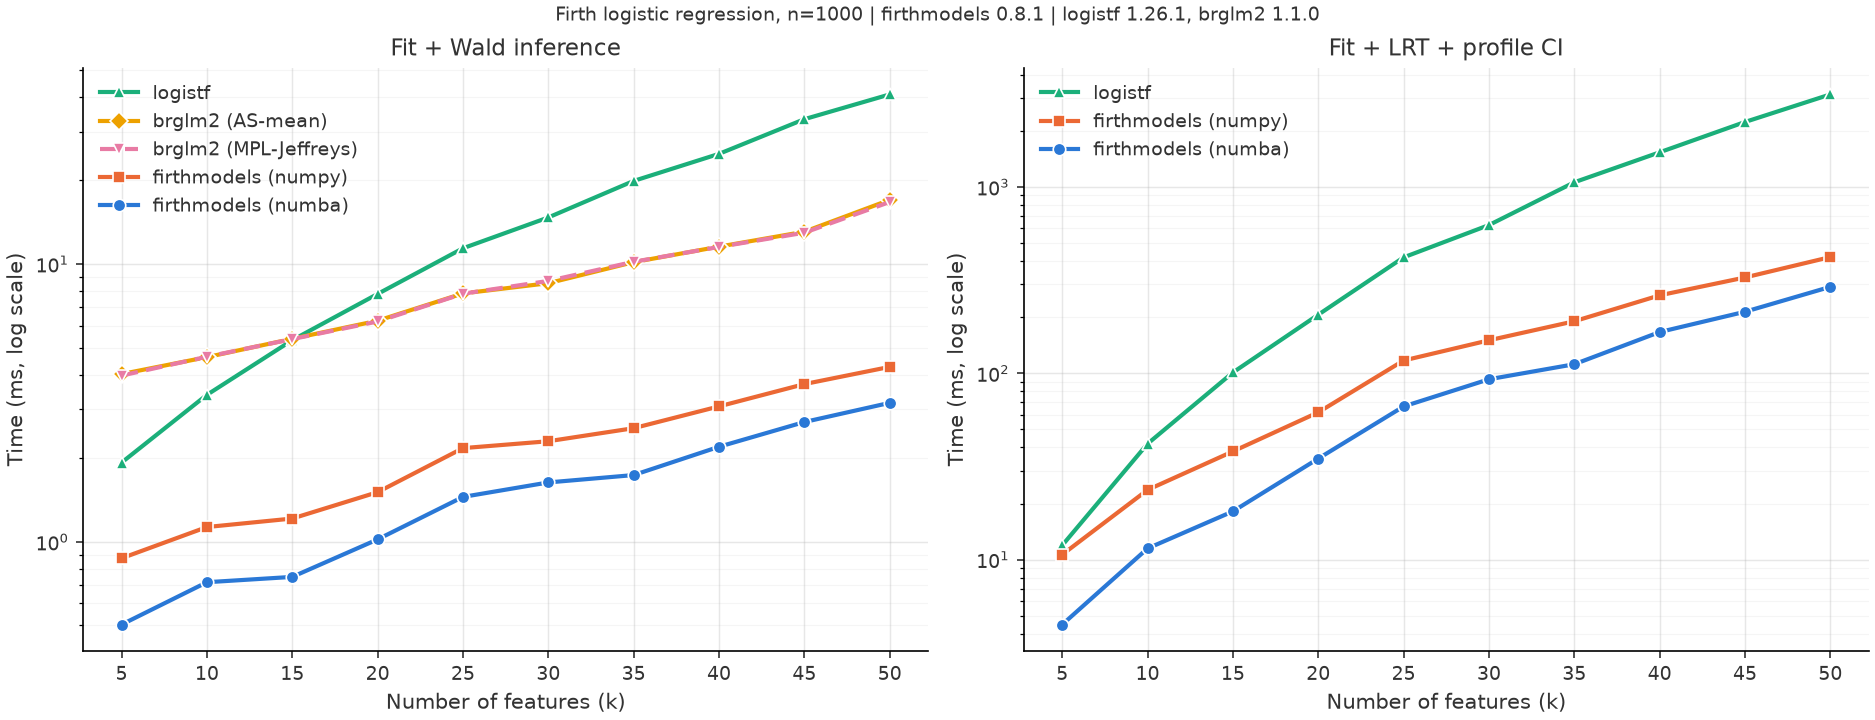
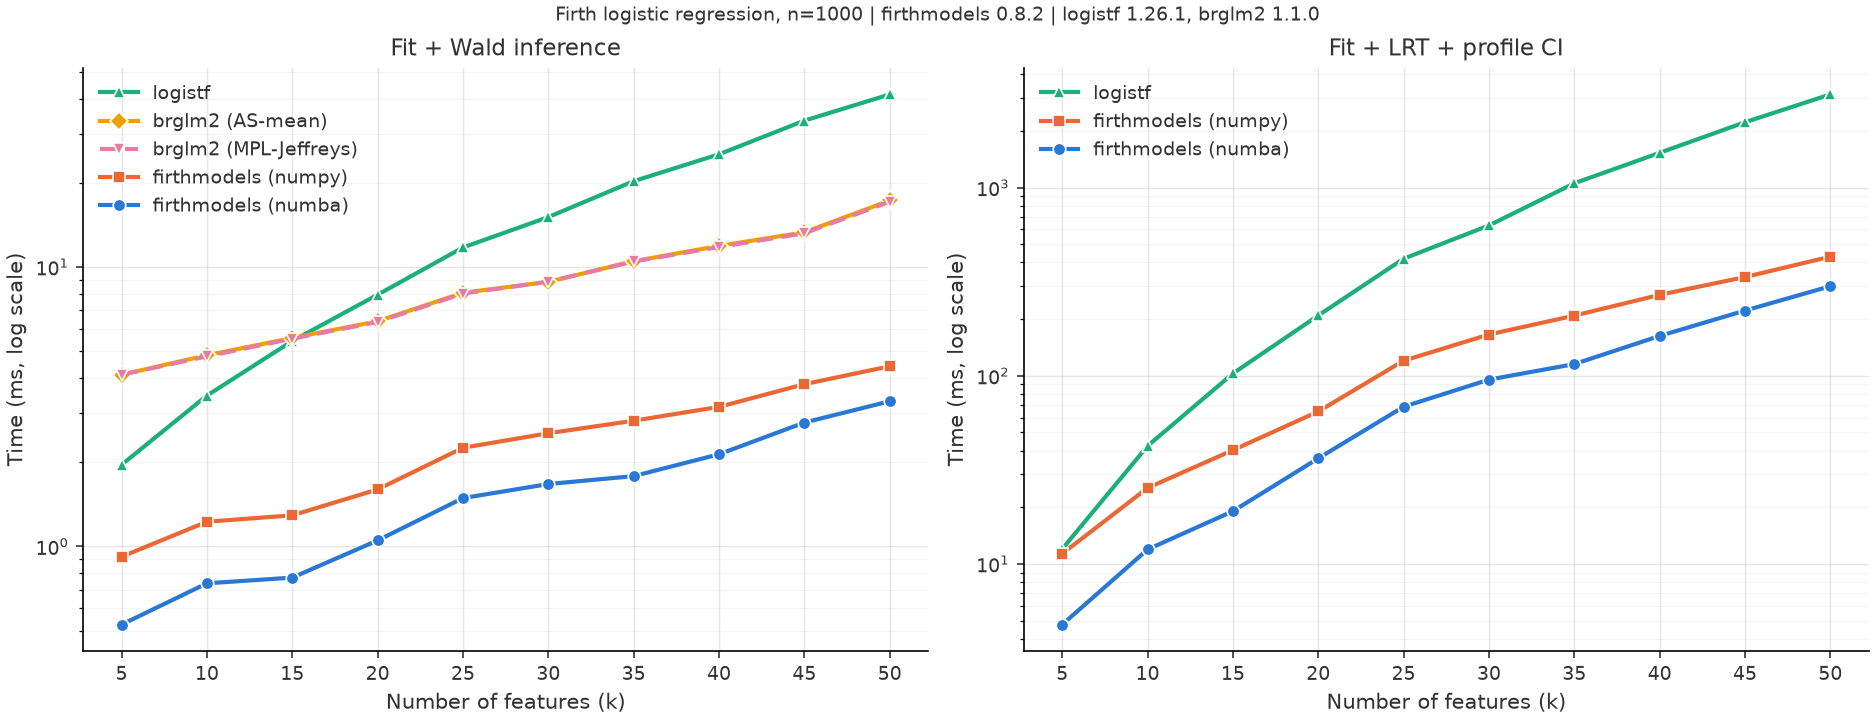
bump to 0.8.2

diff --git a/benchmarks/README.md b/benchmarks/README.md
@@ -7,17 +7,17 @@ of Firth-penalized logistic regression (R [logistf](https://cran.r-project.org/p
 
 ## Summary
 
-For the full workflow, firthmodels' Numba backend is **10.8x
-faster than logistf** (k=50) and **159x faster than
-coxphf** (k=30). Without Numba, the pure NumPy backend is 7.5x
-faster than logistf and 23.7x faster than coxphf.
+For the full workflow, firthmodels' Numba backend is **10.5x
+faster than logistf** (k=50) and **158x faster than
+coxphf** (k=30). Without Numba, the pure NumPy backend is 7.3x
+faster than logistf and 23.4x faster than coxphf.
 
 | Workload | Baseline | Speedup at k=5 | Speedup at largest k |
 |---|---|--:|--:|
-| Logistic: fit + Wald | next-fastest package | 3.8x | 5.3x |
-| Logistic: fit + LRT + profile CI | logistf | 2.7x | 10.8x |
-| Cox: fit + Wald | coxphf | 11.4x | 132x |
-| Cox: fit + LRT + profile CI | coxphf | 8.4x | 159x |
+| Logistic: fit + Wald | next-fastest package | 3.7x | 5.2x |
+| Logistic: fit + LRT + profile CI | logistf | 2.5x | 10.5x |
+| Cox: fit + Wald | coxphf | 11.2x | 130x |
+| Cox: fit + LRT + profile CI | coxphf | 8.1x | 158x |
 
 The largest observed deviation across coefficients, profile CI bounds, and p-values is 8.0e-07 (see [Correctness](#correctness)).
 
@@ -46,20 +46,20 @@ All values are the minimum observed wall-clock time across repeated runs, in mil
 
 | k | firthmodels<br>(numba) | firthmodels<br>(numpy) | logistf | brglm2<br>(AS-mean) | brglm2<br>(MPL-Jeffreys) | numba speedup<br>vs next fastest | numpy speedup<br>vs next fastest |
 |--:|--:|--:|--:|--:|--:|--:|--:|
-| 5 | **0.50** | 0.87 | <ins>1.9</ins> | 4.0 | 4.0 | 3.8x | 2.2x |
-| 10 | **0.72** | 1.1 | <ins>3.4</ins> | 4.6 | 4.6 | 4.7x | 3.0x |
-| 15 | **0.75** | 1.2 | <ins>5.3</ins> | 5.4 | 5.4 | 7.1x | 4.4x |
-| 20 | **1.0** | 1.5 | 7.8 | 6.3 | <ins>6.2</ins> | 6.1x | 4.1x |
-| 25 | **1.5** | 2.2 | 11.4 | 7.8 | <ins>7.8</ins> | 5.4x | 3.6x |
-| 30 | **1.6** | 2.3 | 14.7 | <ins>8.5</ins> | 8.7 | 5.2x | 3.7x |
-| 35 | **1.7** | 2.6 | 19.9 | <ins>10.2</ins> | 10.2 | 5.8x | 4.0x |
-| 40 | **2.2** | 3.1 | 24.9 | 11.6 | <ins>11.5</ins> | 5.2x | 3.8x |
-| 45 | **2.7** | 3.7 | 33.2 | 13.1 | <ins>13.0</ins> | 4.8x | 3.5x |
-| 50 | **3.2** | 4.3 | 40.8 | 17.0 | <ins>16.7</ins> | 5.3x | 3.9x |
+| 5 | **0.53** | 0.92 | <ins>2.0</ins> | 4.1 | 4.1 | 3.7x | 2.1x |
+| 10 | **0.74** | 1.2 | <ins>3.5</ins> | 4.8 | 4.8 | 4.7x | 2.8x |
+| 15 | **0.77** | 1.3 | <ins>5.4</ins> | 5.6 | 5.5 | 7.0x | 4.2x |
+| 20 | **1.1** | 1.6 | 8.0 | 6.4 | <ins>6.4</ins> | 6.1x | 4.0x |
+| 25 | **1.5** | 2.3 | 11.7 | 8.1 | <ins>8.0</ins> | 5.4x | 3.6x |
+| 30 | **1.7** | 2.5 | 15.1 | <ins>8.8</ins> | 8.9 | 5.3x | 3.5x |
+| 35 | **1.8** | 2.8 | 20.3 | 10.5 | <ins>10.5</ins> | 5.9x | 3.7x |
+| 40 | **2.1** | 3.2 | 25.3 | 11.9 | <ins>11.8</ins> | 5.5x | 3.7x |
+| 45 | **2.8** | 3.8 | 33.4 | 13.3 | <ins>13.2</ins> | 4.8x | 3.5x |
+| 50 | **3.3** | 4.4 | 41.5 | 17.3 | <ins>17.1</ins> | 5.2x | 3.9x |
 
 The fastest time at each k is **bolded**. The next-fastest package (not including the firthmodels
 NumPy backend) is <ins>underlined</ins> and is the baseline for the speedup columns. The two brglm2
-fitting methods have nearly identical timings (within 1.9% at every k).
+fitting methods have nearly identical timings (within 1.1% at every k).
 
 ### Full workflow: fit + LRT + profile likelihood CI
 
@@ -68,16 +68,16 @@ p-values or profile likelihood CIs.
 
 | k | firthmodels<br>(numba) | firthmodels<br>(numpy) | logistf | numba speedup<br>vs logistf | numpy speedup<br>vs logistf |
 |--:|--:|--:|--:|--:|--:|
-| 5 | **4.5** | 10.6 | <ins>11.9</ins> | 2.7x | 1.1x |
-| 10 | **11.5** | 23.7 | <ins>41.9</ins> | 3.6x | 1.8x |
-| 15 | **18.2** | 38.1 | <ins>101.0</ins> | 5.6x | 2.7x |
-| 20 | **34.9** | 61.7 | <ins>206.2</ins> | 5.9x | 3.3x |
-| 25 | **66.4** | 117.1 | <ins>418.7</ins> | 6.3x | 3.6x |
-| 30 | **92.9** | 150.3 | <ins>624.0</ins> | 6.7x | 4.2x |
-| 35 | **111.8** | 190.2 | <ins>1,059</ins> | 9.5x | 5.6x |
-| 40 | **166.4** | 261.9 | <ins>1,533</ins> | 9.2x | 5.9x |
-| 45 | **213.9** | 326.7 | <ins>2,230</ins> | 10.4x | 6.8x |
-| 50 | **290.9** | 420.3 | <ins>3,135</ins> | 10.8x | 7.5x |
+| 5 | **4.8** | 11.3 | <ins>12.0</ins> | 2.5x | 1.1x |
+| 10 | **11.9** | 25.3 | <ins>42.4</ins> | 3.5x | 1.7x |
+| 15 | **19.1** | 40.3 | <ins>102.8</ins> | 5.4x | 2.6x |
+| 20 | **36.4** | 64.6 | <ins>209.1</ins> | 5.7x | 3.2x |
+| 25 | **68.5** | 120.3 | <ins>418.9</ins> | 6.1x | 3.5x |
+| 30 | **95.4** | 165.7 | <ins>629.5</ins> | 6.6x | 3.8x |
+| 35 | **115.4** | 208.8 | <ins>1,054</ins> | 9.1x | 5.0x |
+| 40 | **162.8** | 269.2 | <ins>1,531</ins> | 9.4x | 5.7x |
+| 45 | **222.1** | 334.8 | <ins>2,226</ins> | 10.0x | 6.6x |
+| 50 | **299.2** | 429.5 | <ins>3,128</ins> | 10.5x | 7.3x |
 
 ---
 
@@ -96,12 +96,12 @@ All values are the minimum observed wall-clock time across repeated runs, in mil
 
 | k | firthmodels<br>(numba) | firthmodels<br>(numpy) | coxphf | numba speedup<br>vs coxphf | numpy speedup<br>vs coxphf |
 |--:|--:|--:|--:|--:|--:|
-| 5 | **0.29** | 1.4 | <ins>3.3</ins> | 11.4x | 2.3x |
-| 10 | **0.40** | 2.2 | <ins>8.7</ins> | 21.9x | 4.0x |
-| 15 | **0.57** | 3.2 | <ins>24.1</ins> | 42.5x | 7.5x |
-| 20 | **0.85** | 5.6 | <ins>54.8</ins> | 64.1x | 9.8x |
-| 25 | **1.2** | 7.7 | <ins>119.6</ins> | 99.8x | 15.5x |
-| 30 | **1.6** | 10.3 | <ins>210.3</ins> | 132x | 20.5x |
+| 5 | **0.30** | 1.5 | <ins>3.4</ins> | 11.2x | 2.2x |
+| 10 | **0.41** | 2.3 | <ins>9.0</ins> | 22.0x | 4.0x |
+| 15 | **0.57** | 3.3 | <ins>24.9</ins> | 43.4x | 7.5x |
+| 20 | **0.86** | 5.7 | <ins>56.1</ins> | 65.4x | 9.8x |
+| 25 | **1.2** | 7.9 | <ins>122.2</ins> | 98.7x | 15.6x |
+| 30 | **1.6** | 10.5 | <ins>211.6</ins> | 130x | 20.2x |
 
 The fastest time at each k is **bolded**. The next-fastest package (not including the firthmodels
 NumPy backend) is <ins>underlined</ins> and is the baseline for the speedup columns.
@@ -110,12 +110,12 @@ NumPy backend) is <ins>underlined</ins> and is the baseline for the speedup colu
 
 | k | firthmodels<br>(numba) | firthmodels<br>(numpy) | coxphf | numba speedup<br>vs coxphf | numpy speedup<br>vs coxphf |
 |--:|--:|--:|--:|--:|--:|
-| 5 | **2.1** | 11.9 | <ins>17.4</ins> | 8.4x | 1.5x |
-| 10 | **6.8** | 43.6 | <ins>160.0</ins> | 23.4x | 3.7x |
-| 15 | **17.2** | 111.3 | <ins>912.8</ins> | 53.0x | 8.2x |
-| 20 | **31.4** | 221.8 | <ins>2,516</ins> | 80.2x | 11.3x |
-| 25 | **58.5** | 398.4 | <ins>7,281</ins> | 124x | 18.3x |
-| 30 | **97.1** | 651.4 | <ins>15,425</ins> | 159x | 23.7x |
+| 5 | **2.2** | 12.8 | <ins>17.9</ins> | 8.1x | 1.4x |
+| 10 | **7.1** | 45.6 | <ins>163.0</ins> | 22.9x | 3.6x |
+| 15 | **17.4** | 114.1 | <ins>928.5</ins> | 53.4x | 8.1x |
+| 20 | **30.8** | 227.2 | <ins>2,547</ins> | 82.6x | 11.2x |
+| 25 | **59.4** | 404.1 | <ins>7,418</ins> | 125x | 18.4x |
+| 30 | **98.1** | 660.6 | <ins>15,467</ins> | 158x | 23.4x |
 
 ---
 
@@ -133,14 +133,16 @@ Maximum over all coefficients and all k during the benchmark run (recorded in th
 | Logistic fit vs brglm2 AS_mean | Coefficients | 7.3e-07 |
 | Logistic fit vs brglm2 MPL_Jeffreys | Coefficients | 7.3e-07 |
 | Logistic full vs logistf | Coefficients | 2.2e-16 |
-| Logistic full vs logistf | Profile CI bounds | 5.3e-13 |
-| Logistic full vs logistf | LRT p-values | 2.7e-10 |
+| Logistic full vs logistf | Profile CI bounds | 5.4e-13 |
+| Logistic full vs logistf | LRT p-values | 4.9e-10 |
 | Logistic numba vs numpy | Coefficients | 2.2e-16 |
 | Cox fit vs coxphf | Coefficients | 8.0e-07 |
 | Cox full vs coxphf | Coefficients | 8.0e-07 |
 | Cox full vs coxphf | Profile CI bounds | 4.3e-08 |
-| Cox full vs coxphf | LRT p-values | 2.5e-08 |
-| Cox numba vs numpy | Coefficients | 3.9e-16 |
+| Cox full vs coxphf | LRT p-values | 2.6e-08 |
+| Cox numba vs numpy | Coefficients | 2.8e-16 |
+
+Note: the benchmark run(s) recorded firthmodels 0.8.1, while the currently installed version is 0.8.2. Timings describe the recorded version.
 
 ---
 
@@ -153,7 +155,7 @@ Collected at report-generation time on the benchmark machine.
 | OS | CachyOS |
 | CPU | AMD Ryzen 5 5600X 6-Core Processor |
 | Python | 3.12.13 |
-| firthmodels | 0.8.1 |
+| firthmodels | 0.8.2 |
 | NumPy / SciPy / Numba | 2.3.5 / 1.16.3 / 0.64.0 |
 | NumPy BLAS | /usr/lib/libopenblas.so.0.3 (openblas 0.3.34, runtime) |
 | R | 4.6.1 |
